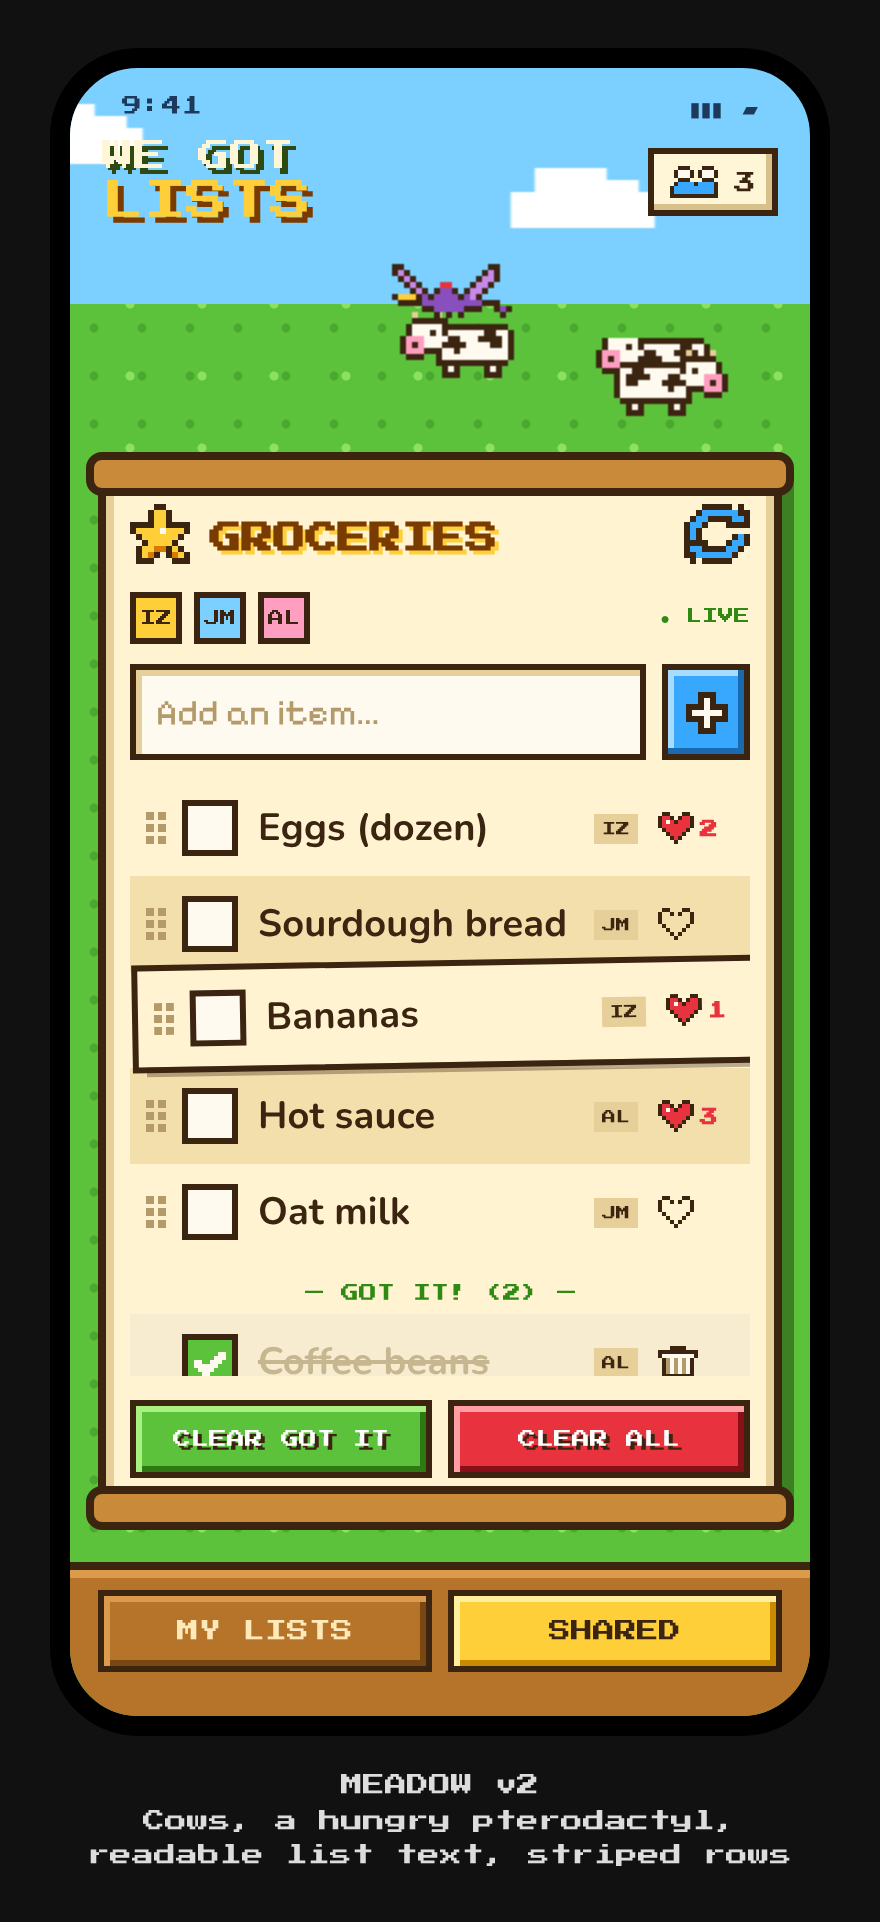
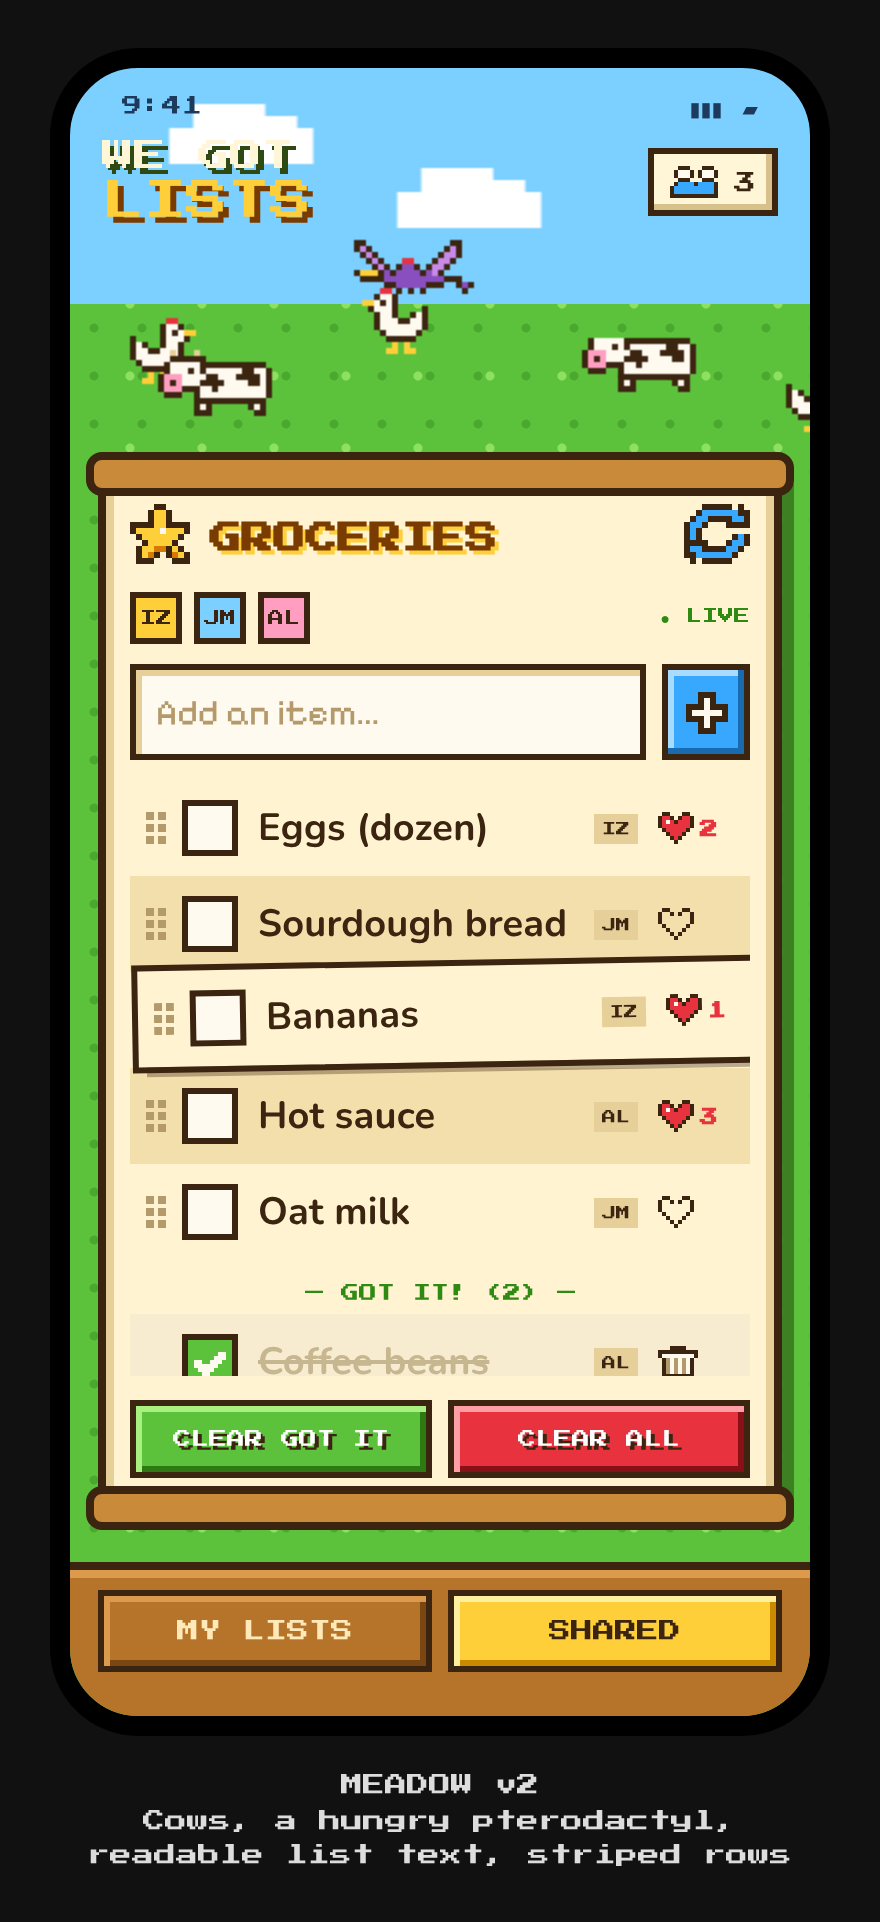
Meadow mockup: cows face the way they walk, add chickens
Claude-Session: https://claude.ai/code/session_01UpCre6ppBuZ3vyepHyLsqp

diff --git a/docs/mockups/meadow-critters.js b/docs/mockups/meadow-critters.js
@@ -18,6 +18,18 @@
     ["..kwk....kwk.......", "..kkk....kkk......."],
     [".kwk......kwk......", ".kk.......kkk......"],
   ];
+  const CHICK_BODY = [
+    "......cc...",
+    ".....kwwk..",
+    ".....kwkwyy",
+    "k....kwwwk.",
+    "kwk..kwwk..",
+    "kwwkkwwwk..",
+    "kwwwwwwwk..",
+    ".kwwwwwk...",
+    "..kkkkk....",
+  ];
+  const CHICK_LEGS = [["...y.y.....", "..yy.yy...."], ["....yy.....", "...yy.y...."]];
   const PTERO = [
     [ // wings up
       "kk..............kk..",
@@ -52,6 +64,12 @@
       ctx.fillRect(Math.round(x) + cx * PX, Math.round(y) + ry * PX, PX, PX);
     }));
   }
+  // Sprites face right, so flip them when they walk left.
+  const chicken = (ctx, x, y, flip, step, peck) => {
+    const body = peck ? CHICK_BODY.map((r, i) => i < 3 ? "" : i === 3 ? "k....kwwwyy" : r) : CHICK_BODY;
+    draw(ctx, body.concat(CHICK_LEGS[step]), x, y + (peck ? 2 : 0), flip);
+  };
+  const critter = (type, ...a) => (type === "cow" ? cow : chicken)(ctx, ...a);
   const cow = (ctx, x, y, flip, step, graze) => {
     const body = graze ? COW_BODY.map((r, i) => i < 2 ? "" : r) : COW_BODY;
     draw(ctx, body.concat(COW_LEGS[step]), x, y + (graze ? 4 : 0), flip);
@@ -73,10 +91,12 @@
   const ease = u => u * u * (3 - 2 * u);
   const COWH = 11 * PX;
 
-  // Cow 0 is the unlucky one: walks in from the left, gets grabbed at t=7, a new one wanders in at t=11.
-  const cow0x = t => -60 + 24 * (((t - 11) % LOOP + LOOP) % LOOP);
+  // The "unlucky" critter walks in from the left; at t=7 the pterodactyl grabs it; a new one wanders in at t=11.
+  // Each loop the pterodactyl picks a cow or a chicken (alternating here so the GIF shows both;
+  // the real app will pick at random).
+  const victimX = t => -60 + 24 * (((t - 11) % LOOP + LOOP) % LOOP);
   const GRAB_T = 7;
-  const grab = { x: cow0x(GRAB_T), y: G - COWH - 4 };
+  const grab = { x: victimX(GRAB_T), y: G - COWH - 4 };
   const KEYS = [[3, W + 40, 6], [4.6, 230, 24], [5.4, 120, 4], [6.5, grab.x + 40, grab.y - 50],
                 [GRAB_T, grab.x - 2, grab.y - 26], [9.6, -90, -60]];
   function pteroPos(t) {
@@ -90,21 +110,32 @@
     ctx.fillStyle = "#ffffff";
     [[0, 6, 36, 9], [6, 0, 18, 9], [20, 3, 12, 6]].forEach(([a, b, w, h]) => ctx.fillRect(x + a * 2, y + b * 2, w * 2, h * 2));
   }
-  function render(t) {
-    t = ((t % LOOP) + LOOP) % LOOP;
+  function render(T) {
+    const loopNo = Math.floor(T / LOOP);
+    const t = ((T % LOOP) + LOOP) % LOOP;
+    // The victim that gets grabbed this loop; after t=11 the next loop's victim is walking in.
+    const victim = (n) => (n % 2 === 0 ? "cow" : "chicken");
+    const vNow = victim(t >= 11 ? loopNo + 1 : loopNo);
     ctx.clearRect(0, 0, W, H);
-    cloud(((t * 6) % (W + 160)) - 80, 18);
-    cloud(W - ((t * 4 + 120) % (W + 160)), 50);
-    const step = Math.floor(t * 4) % 2;
-    // back to front: grazing cow, unlucky cow, wandering cow
-    cow(ctx, 270 + Math.sin(t * 0.5) * 14, G - COWH - 14, Math.cos(t * 0.5) < 0, Math.floor(t * 2) % 2, Math.floor(t / 2.5) % 2 === 0);
-    if (!(t >= GRAB_T && t < 11)) cow(ctx, cow0x(t), grab.y + 4, true, step, false);
-    cow(ctx, W + 20 - ((t * 16) % (W + 100)), G - COWH + 2, false, (step + 1) % 2, false);
+    cloud(((T * 6) % (W + 160)) - 80, 18);
+    cloud(W - ((T * 4 + 120) % (W + 160)), 50);
+    const step = Math.floor(T * 4) % 2;
+    // back row: grazing cow drifting back and forth, two chickens pecking about
+    const gx = 270 + Math.sin(T * 0.5) * 14, gdir = Math.cos(T * 0.5) < 0;
+    cow(ctx, gx, G - COWH - 14, gdir, Math.floor(T * 2) % 2, Math.floor(T / 2.5) % 2 === 0);
+    const h1 = 60 + Math.sin(T * 0.8) * 30;
+    chicken(ctx, h1, G - 9 * PX - 20, Math.cos(T * 0.8) < 0, Math.floor(T * 5) % 2, Math.floor(T * 1.3) % 3 === 0);
+    // the victim walks right (faces right, no flip)
+    const vy = vNow === "cow" ? grab.y + 4 : grab.y + 14;
+    if (!(t >= GRAB_T && t < 11)) critter(vNow, victimX(t), vy, false, step, false);
+    // front: a cow wandering left (flipped so it faces left), and a chicken trotting right
+    cow(ctx, W + 20 - ((T * 16) % (W + 100)), G - COWH + 2, true, (step + 1) % 2, false);
+    chicken(ctx, ((T * 30 + 200) % (W + 80)) - 40, G - 9 * PX + 4, false, Math.floor(T * 6) % 2, false);
     const p = pteroPos(t);
     if (p) {
       const prev = pteroPos(Math.max(KEYS[0][0], t - 0.05)) || p;
-      const flip = p.x > prev.x;                   // sprite faces left; flip when flying right
-      if (t >= GRAB_T) cow(ctx, p.x + 4, p.y + 24, true, 0, false);
+      const flip = p.x > prev.x;                   // ptero sprite faces left; flip when flying right
+      if (t >= GRAB_T) critter(victim(loopNo), p.x + 4, p.y + 24, true, 0, false);
       draw(ctx, PTERO[Math.floor(t * 5) % 2], p.x, p.y, flip);
     }
   }

diff --git a/docs/PLAN.md b/docs/PLAN.md
@@ -6,7 +6,7 @@
 |---|---|
 | Platform | Installable website (PWA), mainly for iPhone. Open in Safari → Share → "Add to Home Screen". |
 | Hosting | GitHub Pages, deployed automatically by GitHub Actions on every push to `main`. |
-| Backend | Supabase: accounts, database, live updates. |
+| Backend | Supabase: accounts, database, live updates. Shares one of the owner's existing projects; all tables in a separate `wgl` schema. |
 | Sign-in | Email + password (with "forgot password" email). |
 | Tabs | **My Lists** (not shared) and **Shared**. Sharing a list moves it to Shared. |
 | Primary list | Star icon. Personal to each user, one star per user, any list (shared or not). Opens on app launch. |
@@ -20,7 +20,7 @@
 | Hearts | Shared lists only. Many people can heart one item. Shows filled heart + count; tap to see who. |
 | Offline | Shows the last-loaded lists without signal; changes made offline are saved and sent when signal returns. |
 | Look | **Meadow** (2026-11-17): sky + grass, list on a parchment scroll, wooden buttons. See `docs/mockups/d-meadow-v2.*`. |
-| Meadow scene | A strip of meadow under the logo with cows wandering. Every so often a pterodactyl swoops down and carries a cow off; a new cow wanders in. Original sprites. |
+| Meadow scene | A strip of meadow under the logo with cows and chickens wandering (each faces the way it walks). Every so often a pterodactyl swoops down and carries off a randomly chosen cow or chicken; a new one wanders in. Original sprites. |
 | Fonts | Blocky pixel font ("Press Start 2P") for headings/buttons, "Pixelify Sans" for small text, and a clean readable font ("Nunito" bold) for list item text only. |
 | Rows | Alternating parchment shades on list rows. |
 | Tabs | My Lists / Shared tab bar sits at the **bottom** of the screen (thumb-reachable, iPhone convention, frees space for the meadow). |
@@ -29,7 +29,7 @@
 - **Deleting a shared list:** with "anyone can do anything", one person could delete a list for everyone.
   Suggested default: on a shared list the menu offers **Leave list** for everyone, and **Delete for everyone** with a confirm. *Default if no answer: that.*
 - **Light/dark:** pixel themes are usually one fixed palette. *Default: no separate dark mode.*
-- **Supabase project:** free-plan limit reached. Decide: share an existing project (separate `wgl` schema), pause one, or use another backend. *Blocks Milestone 1.*
+- **Supabase:** share an existing project (owner decision 2026-11-18). We Got Lists tables live in their own `wgl` schema. Waiting on: which project + its URL and publishable key.
 
 ## How it fits together
 
@@ -67,3 +67,4 @@ Each milestone ends with something you can open on your phone and test.
 ## Progress log
 - 2026-11-17: Plan agreed; three pixel-art mockups made (`docs/mockups/*.png`).
 - 2026-11-17: Meadow look chosen. Added cows + pterodactyl scene, readable list font, striped rows, drag-to-reorder, bottom tab bar (`d-meadow-v2.html/.png/.gif`).
+- 2026-11-18: Fixed backwards-walking cows; added chickens (pterodactyl picks cow or chicken). Decided to share an existing Supabase project.
